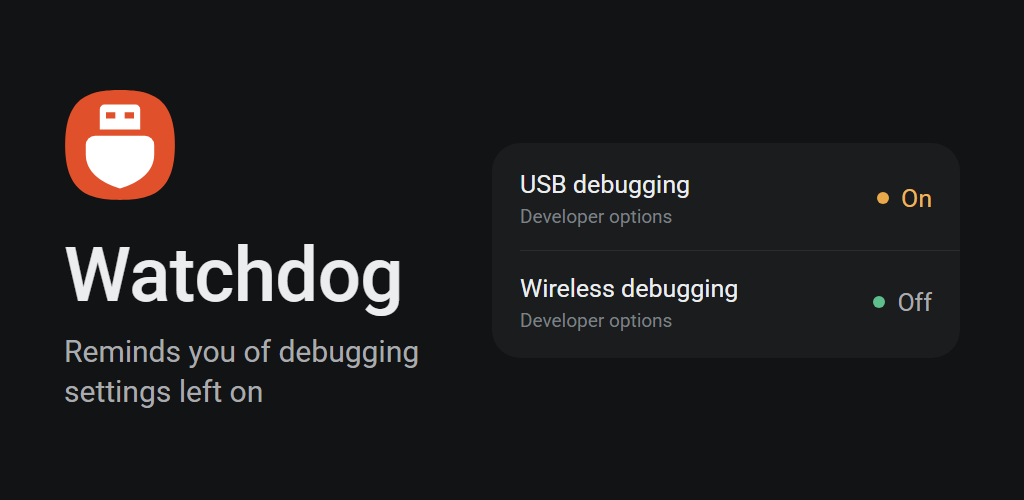
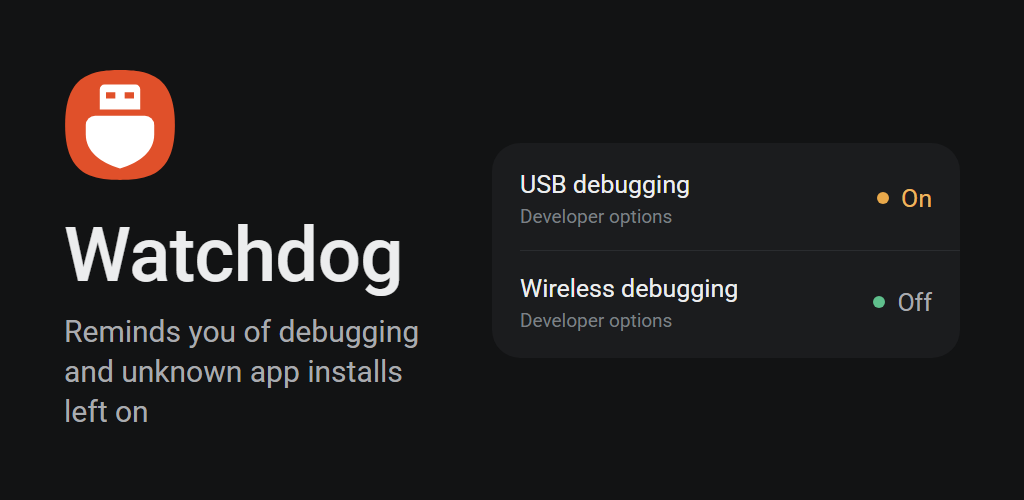
Feature graphic names unknown app installs too

Changed region(s): [[0.0625, 0.45, 0.4062, 0.84], [0.0625, 0.12, 0.1875, 0.42]]

diff --git a/tools/play_graphics.py b/tools/play_graphics.py
@@ -41,14 +41,14 @@ SAMSUNG_MASK = "M99,50C99,6.935,77.063,1,50,1C22.935,1,1,6.935,1,50c0,43.063,21.
 
 TEXTS = {
     "en-US": {
-        "tagline": "Reminds you of debugging settings left on",
+        "tagline": "Reminds you of debugging and unknown app installs left on",
         "rows": [("USB debugging", "Developer options", "On", "risk"),
                  ("Wireless debugging", "Developer options", "Off", "safe")],
         "shots": [("docs/screen-main.png", "Debugging left on?<br>Watchdog reminds you."),
                   ("docs/screen-language.png", "English or Turkish,<br>chosen in the app.")],
     },
     "tr-TR": {
-        "tagline": "Açık unutulan hata ayıklama ayarlarını hatırlatır",
+        "tagline": "Açık kalan hata ayıklamayı ve bilinmeyen uygulama iznini hatırlatır",
         "rows": [("USB hata ayıklama", "Geliştirici seçenekleri", "Açık", "risk"),
                  ("Kablosuz hata ayıklama", "Geliştirici seçenekleri", "Kapalı", "safe")],
         "shots": [("docs/screen-main-tr.png", "Hata ayıklama açık mı kaldı?<br>Watchdog hatırlatır."),
